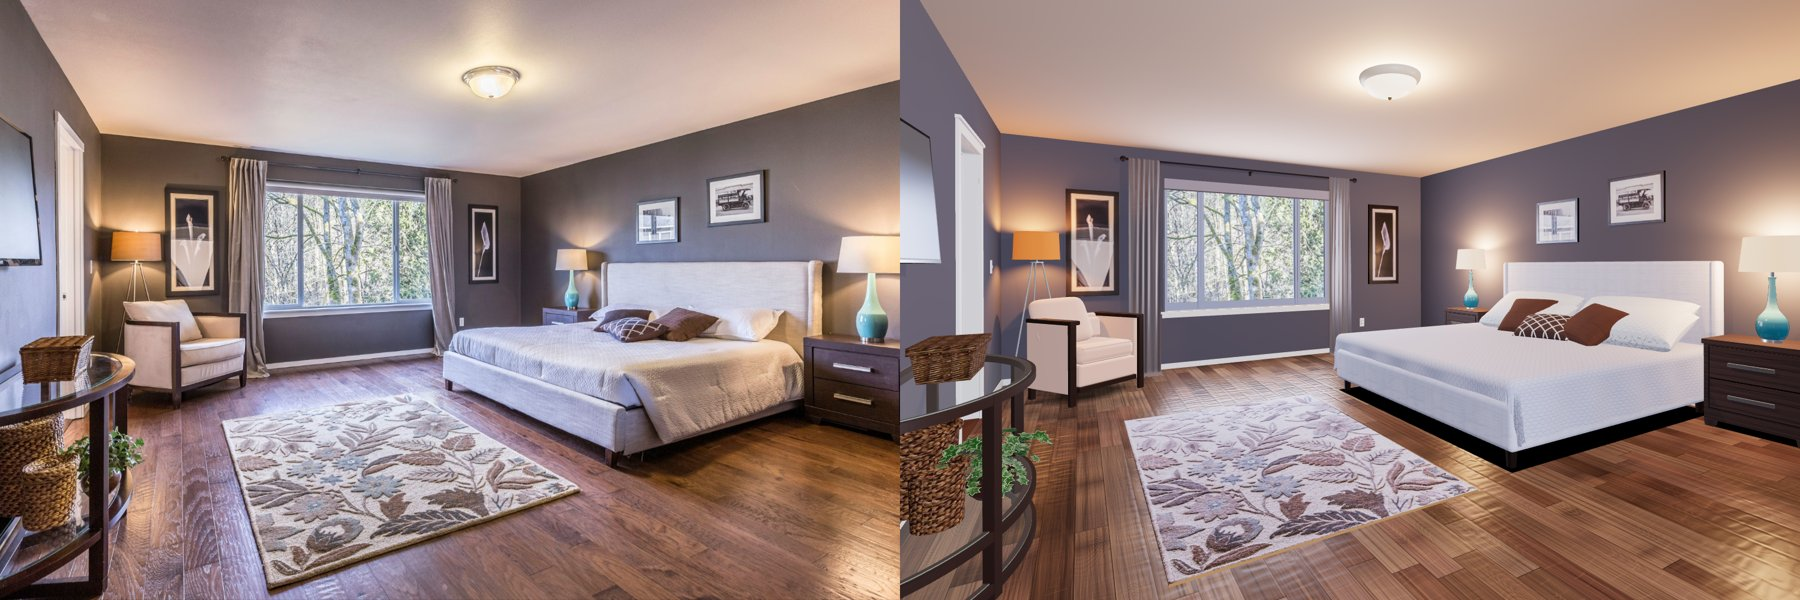
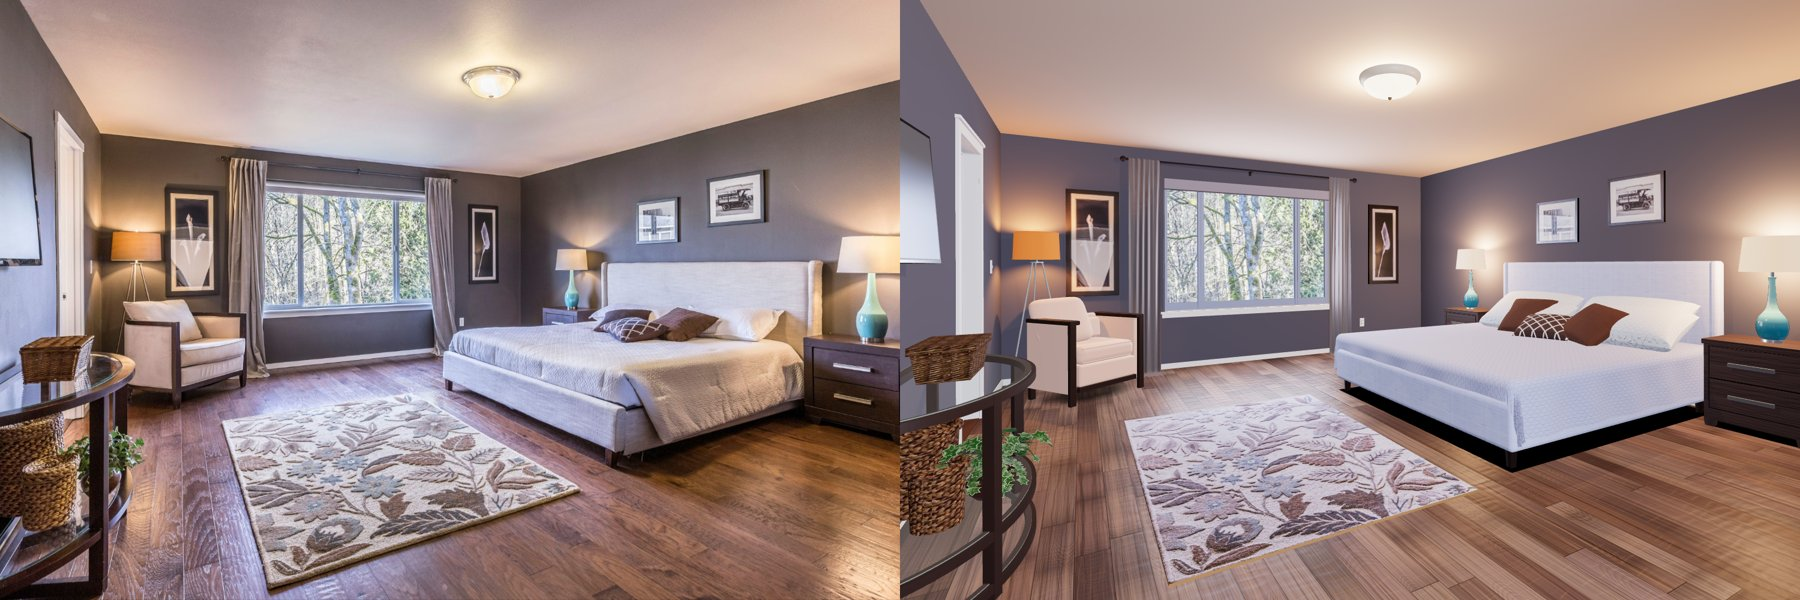
Round 3: lighter floor, finished comparison log and final screenshots
Final verifier run: zero console problems, all 9 checks pass, including
mouse look under a real pointer lock.

Claude-Session: https://claude.ai/code/session_01Y2efgk526VNokyE8ZDStbi

Changed region(s): [[0.4978, 0.57, 1.0, 1.0]]

diff --git a/bedroom/comparison.md b/bedroom/comparison.md
@@ -56,7 +56,17 @@ A zoomed side-by-side pass over the round 2 result:
 
 Mouse look was also added to the verifier (`walk-look`): a real click takes the pointer lock and the view must turn. Headless Chromium sends no `movementX` with Playwright's mouse moves under a lock, so the check falls back to one motion event dispatched under the real lock, and says so in its result.
 
-ROUND3_TABLE
+Measured (photo vs render colour, same 1500 px compare image):
+
+| Spot | Photo | After round 2 | After round 3 |
+|---|---|---|---|
+| Foreground floor | (143,103,85) | (136,91,65) | (139,97,75) |
+| Floor, left | (138,107,102) | (82,56,45) | (98,72,64) |
+| Headboard | (204,206,221) | (196,191,200) | (193,191,206) |
+| Coverlet top | (202,203,221) | (210,202,206) | (208,201,210) |
+| Ceiling light | (234,219,195) | (231,225,218) | (233,227,221) |
+
+Final verifier run: zero console errors, warnings or failed requests. All 9 checks pass: compare shot, walk move, walk look, walk collision, dollhouse, lamp click, time of day, cinematic, photo cycling.
 
 ## What still differs
 
